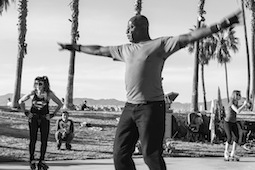
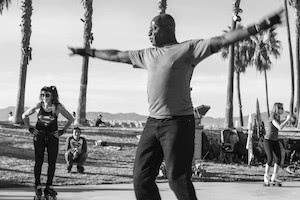
Add files via upload

diff --git a/MyBucketList/index.html b/MyBucketList/index.html
@@ -45,7 +45,8 @@
       <ul class="bare-list">
         <li class="card">
           <a class="card__thumb" href="ideas/see-the-northern-lights.html">
-            <img src="./assets/images/northern-lights-small.jpg" alt="Northern lights above a house at night" />
+            <img src="./assets/images/northern-lights-small.jpg" alt="Northern lights above a house at night" srcset="./assets/images/northern-lights-small.jpg 300w, 
+                    ./assets/images/northern-lights-large.jpg 600w" />
             <div class="card__intro">
               <h3 class="card__title">See the northern lights.</h3>
               <span>1254 people are doing this</span>
@@ -58,7 +59,8 @@
         </li>
         <li class="card">
           <a href="ideas/swim-with-dolphins.html">
-            <img src="./assets/images/dolphins-small.jpg" alt="Swimming with dolphins" />
+            <img src="./assets/images/dolphins-small.jpg" alt="Swimming with dolphins" srcset="./assets/images/dolphins-small.jpg 300w,
+            ./assets/images/dolphins-large.jpg 600w" />
             <div>
               <h3>Swim with dolphins.</h3>
               <span>1254 people are doing this</span>
@@ -71,7 +73,8 @@
         </li>
         <li class="card">
           <a href="dancing.html">
-            <img src="./assets/images/dancing-small.jpg" alt="Dancing like nobody's watching" />
+            <img src="./assets/images/dancing-small.jpg" alt="Dancing like nobody's watching" srcset="./assets/images/dancing-small.jpg 300w,
+                    ./assets/images/dancing-large.jpg 600w" />
             <div>
               <h3>Dance like nobody's watching.</h3>
               <span>1254 people are doing this</span>

diff --git a/MyBucketList/assets/css/main.css b/MyBucketList/assets/css/main.css
@@ -273,3 +273,7 @@ button {
 .card__title {
     font-size: 1.6em;
 }
+
+.card__thumb img {
+    width: 100%;
+}
